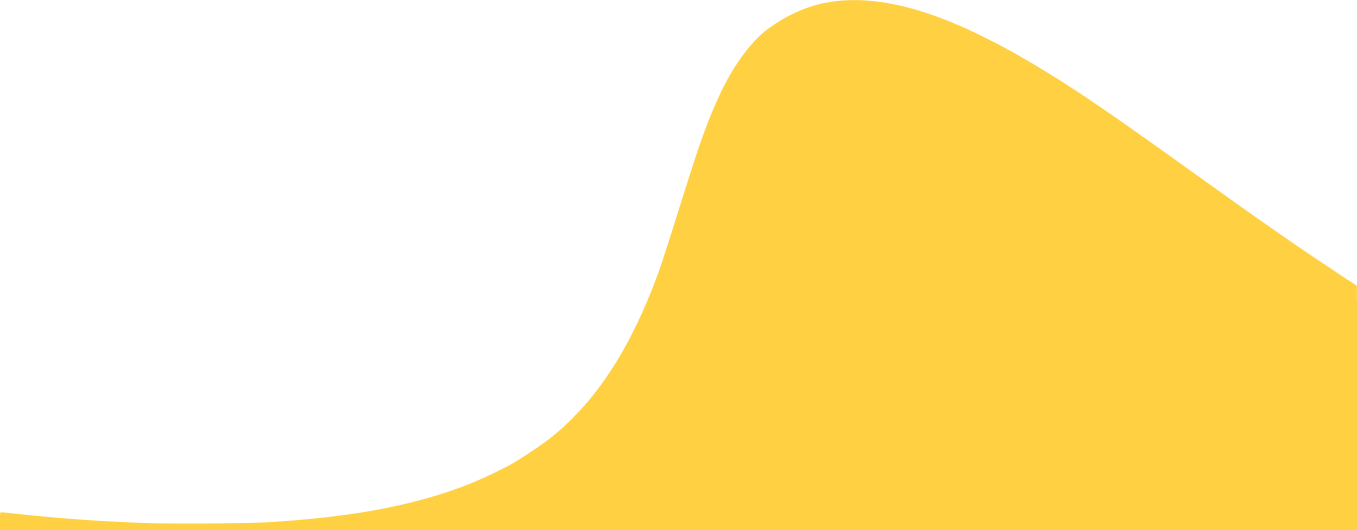
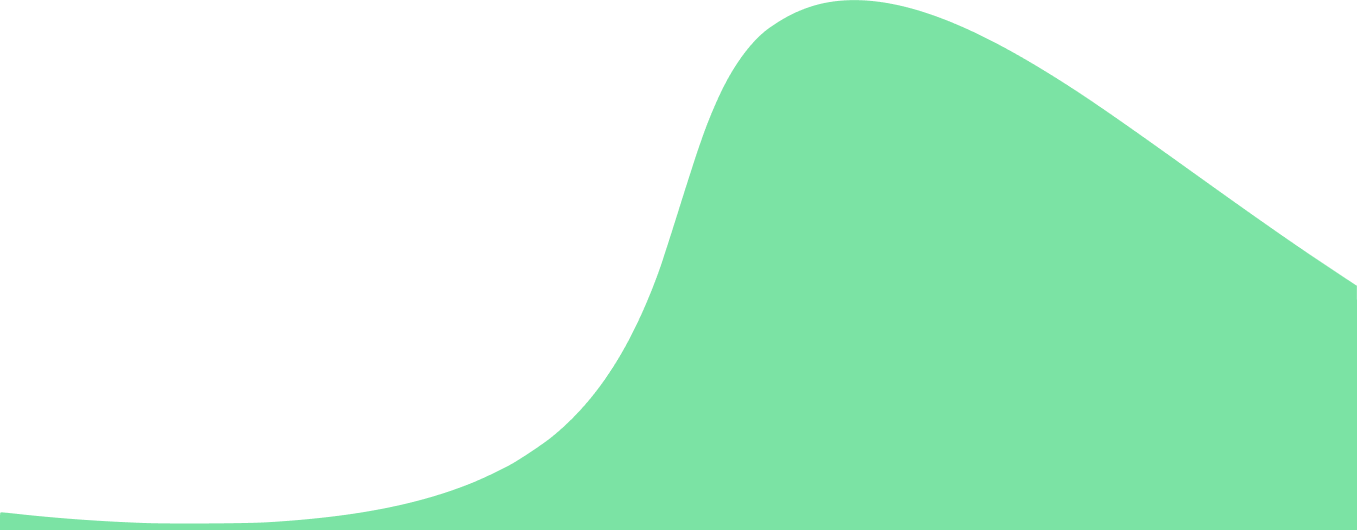
refactor

diff --git a/css/style.css b/css/style.css
@@ -305,7 +305,7 @@ button {
 
 /** banner section **/
 .banner_main {
-    background: url(../images/map.jpg) no-repeat;
+    background: url(../images/map.png) no-repeat;
     min-height: 900px;
     background-size: 100% 100%;
     display: flex;
@@ -348,7 +348,7 @@ button {
 
 .text-bg h1 {
     color: #fff;
-    font-size: 47px;
+    font-size: 64px;
     line-height: 55px;
     padding-bottom: 30px;
 }
@@ -358,6 +358,7 @@ button {
     font-weight: 500;
     padding-bottom: 25px;
     display: block;
+    font-size: 19px;
 }
 
 .text_img {
@@ -688,7 +689,7 @@ button {
 }
 
 .main_form .contactus {
-    border: var(--yellow) solid 1px;
+    border: var(--green) solid 1px;
     margin-bottom: 25px;
     width: 100%;
     height: 47px;
@@ -718,7 +719,7 @@ button {
 
 /** footer **/
 .footer {
-    background: var(--yellow);
+    background: var(--green);
     padding-top: 115px;
     text-align: center;
 }
@@ -939,7 +940,7 @@ ul.link_menu li a:hover {
 
 /* Benefits*/
 .benefits {
-    background: var(--yellow);
+    background: var(--green);
     color: #fff;
     text-align: center;
     padding: 25px 0;
@@ -1125,7 +1126,6 @@ ul.link_menu li a:hover {
     display: flex;
     align-items: center;
     justify-content: center;
-    /*background: linear-gradient(90deg, #FFBA23 0%, #FFCA56 99.25%);*/
     background: linear-gradient(90deg, var(--yellow) 0%, var(--green) 99.25%);
     box-shadow: 0px 11px 11px rgba(116, 98, 170, 0.11), 0px 4px 22px rgba(23, 20, 33, 0.05);
     border-radius: 3px;
@@ -1134,7 +1134,7 @@ ul.link_menu li a:hover {
 
 .trading-account .trading-account__inner:hover {
     position: relative;
-    background: linear-gradient(90deg, #FFCA56 0%, #FFBA23 99.25%);
+    background: linear-gradient(90deg, var(--green) 0%, var(--yellow) 99.25%);
     box-shadow: 0px 11px 11px rgba(116, 98, 170, 0.11), 0px 4px 22px rgba(23, 20, 33, 0.05);
     border-radius: 3px;
     padding: 11px;

diff --git a/index.html b/index.html
@@ -57,7 +57,7 @@
 <!-- end header -->
 <!-- banner -->
 <section id="index" class="banner_main">
-    <div id="banner" class="carousel slide" data-bs-ride="carousel">
+    <div id="banner" class="carousel slide" data-bs-ride="carousel" data-bs-interval="3000">
         <div class="carousel-inner">
             <div class="carousel-item active">
                 <div class="container">
